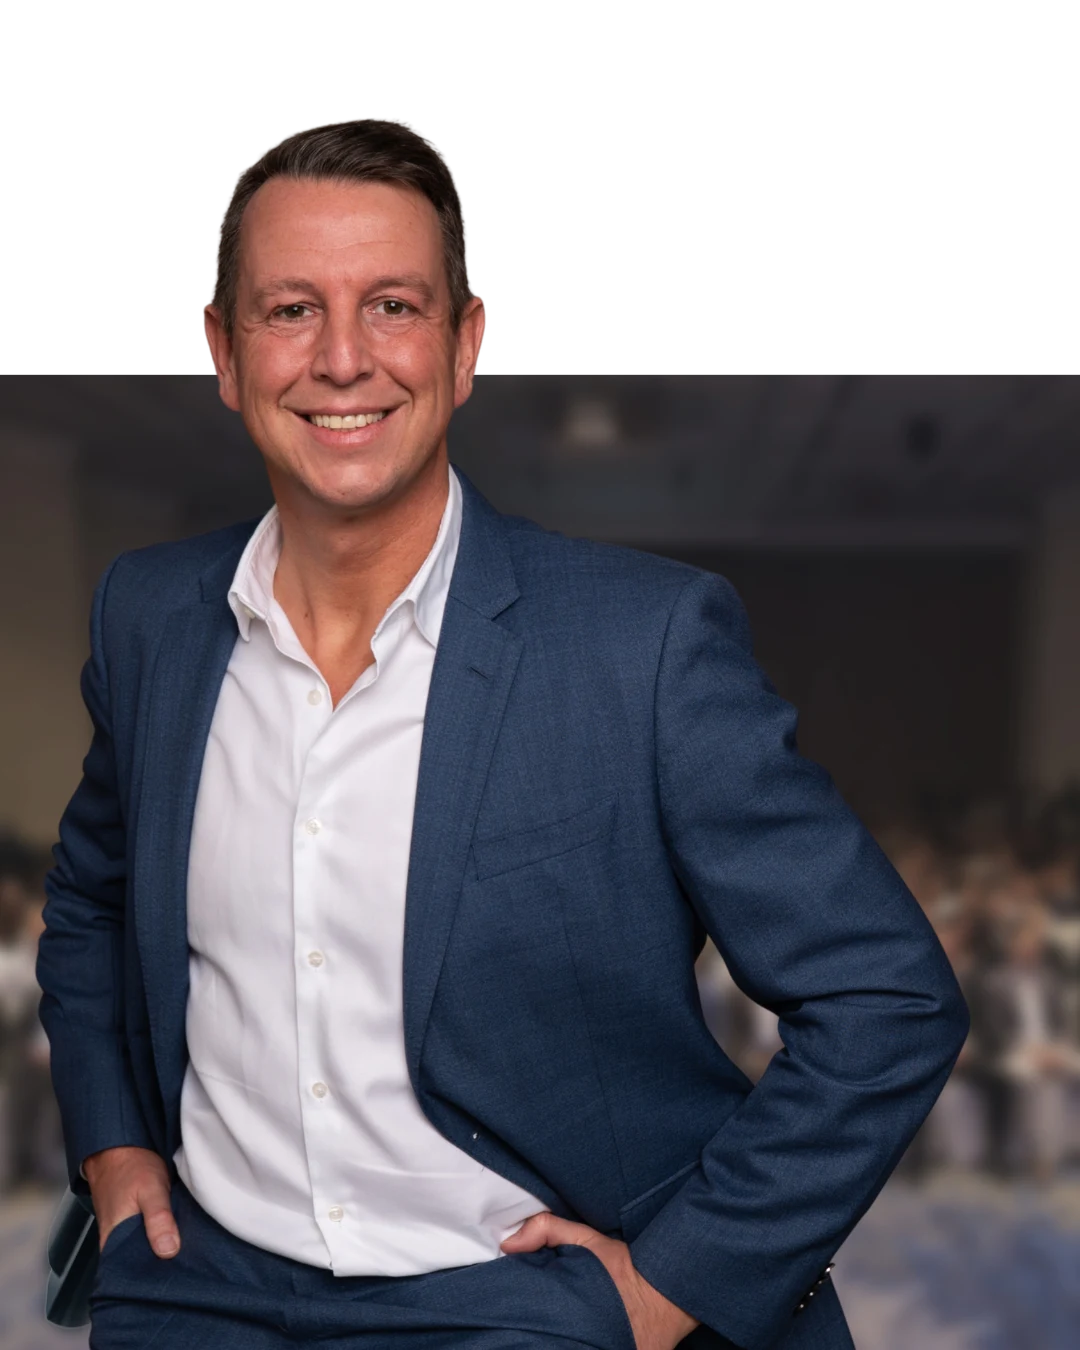
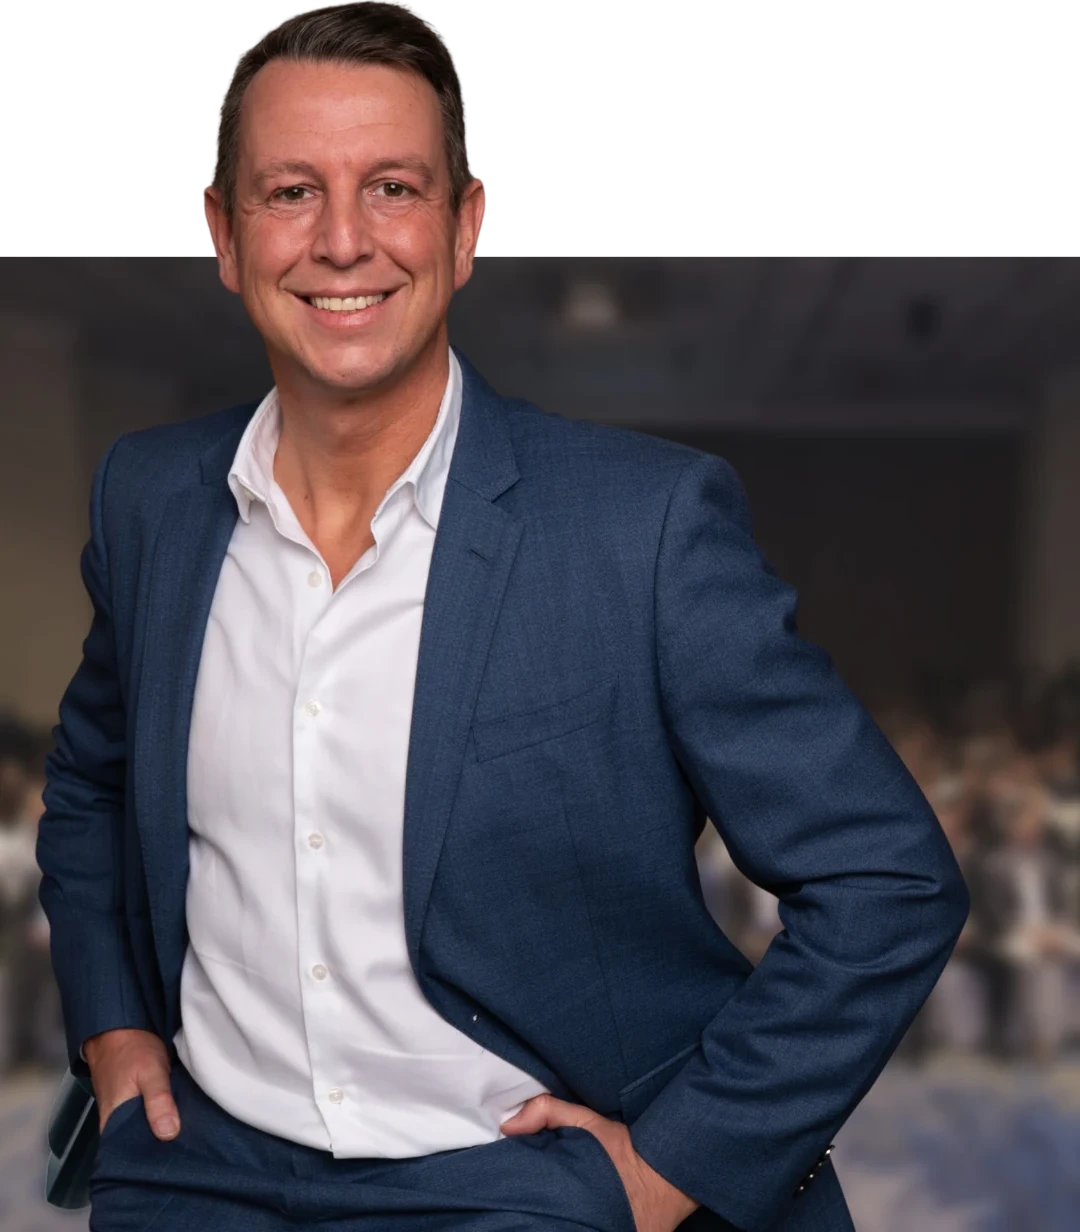
Close the gap under the homepage "Fewer meetings" headline
The space was inside the asset, not the layout. Measured over CDP at ten
widths, the figure's top edge was already 0-1px below the headline at
every one: homepage-problem.webp was 1080x1350 with its first opaque row
at y=118, so 8.7% of the file was transparent padding that scaled with
the image and painted as 40-65px of dead air.

Recropped to 1080x1232 from y=118 (alpha intact, 101644 -> 101290 bytes)
and moved the img height attribute 1350 -> 1232 to match; a stale height
would have reserved the old ratio and put the gap back as layout.

Also fixes a real 82-99px drop in the 861-1000px band, where the copy
column overtakes the figure and align-self:end pushed Oscar to the row
floor. align-self:start added to the existing max-width:1100px query,
above which he is always the taller column so end still governs.

Verified 390-1512 across thirteen widths: gap is 0-1px throughout.
HANDOFF §83.

diff --git a/index.html b/index.html
@@ -424,6 +424,11 @@
     .premium-page .pr-ip-row{grid-template-columns:minmax(0,.35fr) minmax(0,1fr) minmax(0,1.3fr);padding-inline:clamp(16px,3vw,40px)}
     .premium-page .pr-ip-link{grid-column:2/4;justify-self:start;margin-top:6px}
     .premium-page .pr-featured ul{grid-auto-columns:calc((100% - (2 * var(--logo-gap))) / 3)}
+    /* The figure bottom-aligns so Oscar stands on the row's floor, which
+       is right while he is the taller column. Below ~1000px the copy
+       overtakes him and the same rule drops him away from the headline
+       instead, so hand the row back to the top here. */
+    .premium-page .pr-problem-fig{align-self:start}
   }
   @media(max-width:860px){
     .premium-page .pr-problem-body,.premium-page .pr-about-grid{grid-template-columns:minmax(0,1fr);gap:34px}
@@ -814,7 +819,7 @@
           <!-- Designer-supplied replacement for the former generated
                cutout over a separately blurred meeting-room image. -->
           <figure class="pr-problem-fig hm hm-media">
-            <img class="pr-problem-art" src="assets/img/homepage-problem.webp" width="1080" height="1350"
+            <img class="pr-problem-art" src="assets/img/homepage-problem.webp" width="1080" height="1232"
                  alt="Oscar de Grauw" loading="lazy">
           </figure>
 

diff --git a/HANDOFF.md b/HANDOFF.md
@@ -5828,3 +5828,41 @@ Still open from §76: work-with-us.html's "Why work with me" heading
 collides with itself at 1512px — `--lh:.8` on `.ws-about-h` is tighter
 than the letters are tall, and the wrap puts "ME" under the "W". Mobile
 already got `--lh:.9`; desktop never did.
+
+---
+
+## 83. index.html — the "Fewer meetings" portrait sat too low
+
+The gap under the headline was not layout. Measured over CDP at ten
+widths, the figure's top edge was 0-1px below the headline at every one
+of them: the element was already tucked up against the type. The space
+was inside the file. `homepage-problem.webp` was 1080 x 1350 with the
+first opaque row at y=118 — 8.7% of its height was transparent padding,
+which scales with the image, so it read as roughly 40-65 CSS px of dead
+air wherever the image rendered.
+
+Same failure as §75 and worth remembering as a class: when a cutout
+looks badly positioned, check the asset's alpha bounding box before
+touching CSS. An element box that measures flush can still paint low.
+
+Recropped to 1080 x 1232 from y=118, first opaque row now 0:
+
+    cwebp -q 90 -alpha_q 100 -crop 0 118 1080 1232 prob-src.png \
+      -o assets/img/homepage-problem.webp
+
+Replaced in place (101,644 -> 101,290 bytes, alpha intact). The `height`
+attribute on the img in index.html moved 1350 -> 1232 to match; leaving
+it stale would have reserved the old aspect ratio and reintroduced the
+gap as layout. index.html is the only file referencing this asset.
+
+Second, smaller cause in the 861-1000px band only: `.pr-problem-fig` is
+`align-self:end` so Oscar stands on the row's floor, which is correct
+while he is the taller column. Below ~1000px the copy column overtakes
+him and the same rule pushed him down 82-99px. Added `align-self:start`
+to the existing `max-width:1100px` query — above that he is always the
+taller column, so the override never fires where `end` still matters.
+
+Verified at 1512 / 1280 / 1101 / 1100 / 1000 / 950 / 900 / 861 / 860 /
+760 / 600 / 430 / 390: gap is 0-1px at every width. Screenshots at 1512
+and 660 confirm he reads as emerging from the headline again rather than
+floating below it. Safari untested.
